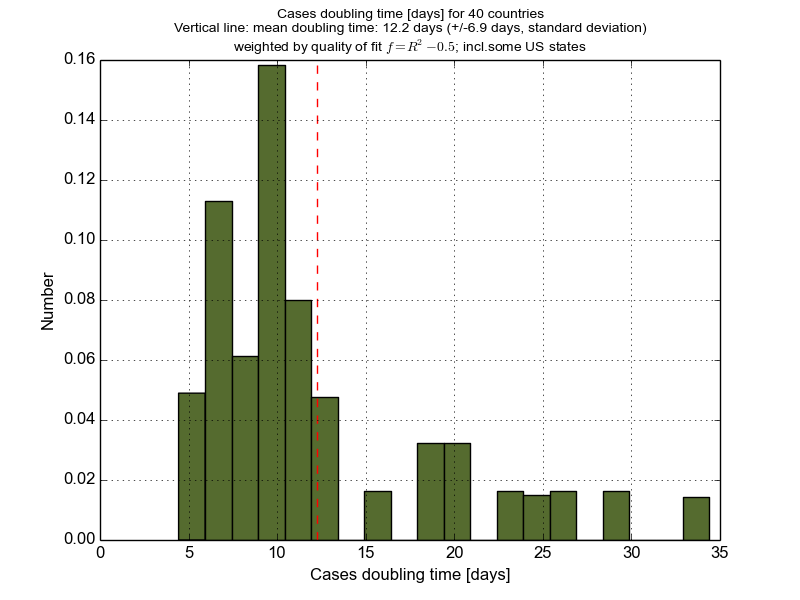
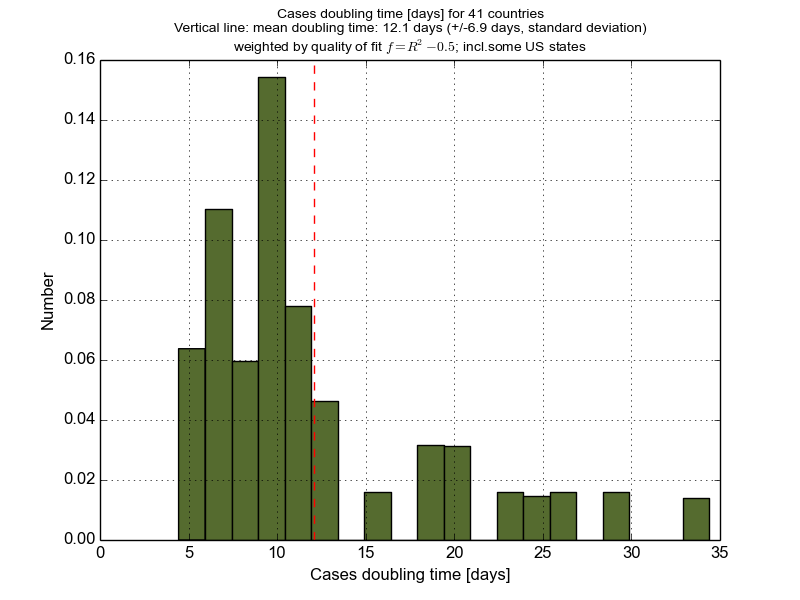
added uae

diff --git a/cov_model/statsanalysis/country_parameters.py b/cov_model/statsanalysis/country_parameters.py
@@ -40,5 +40,6 @@ COUNTRY_PARAMS = \
      "Turkey": ["TUR", 83429.],
      "UK": ["GBR", 67141.],
      "Ukraine": ["UKR", 44246.],
+     "United Arab Emirates": ["UAE", 9631.],
      "US": ["USA", 327096.]
 }
